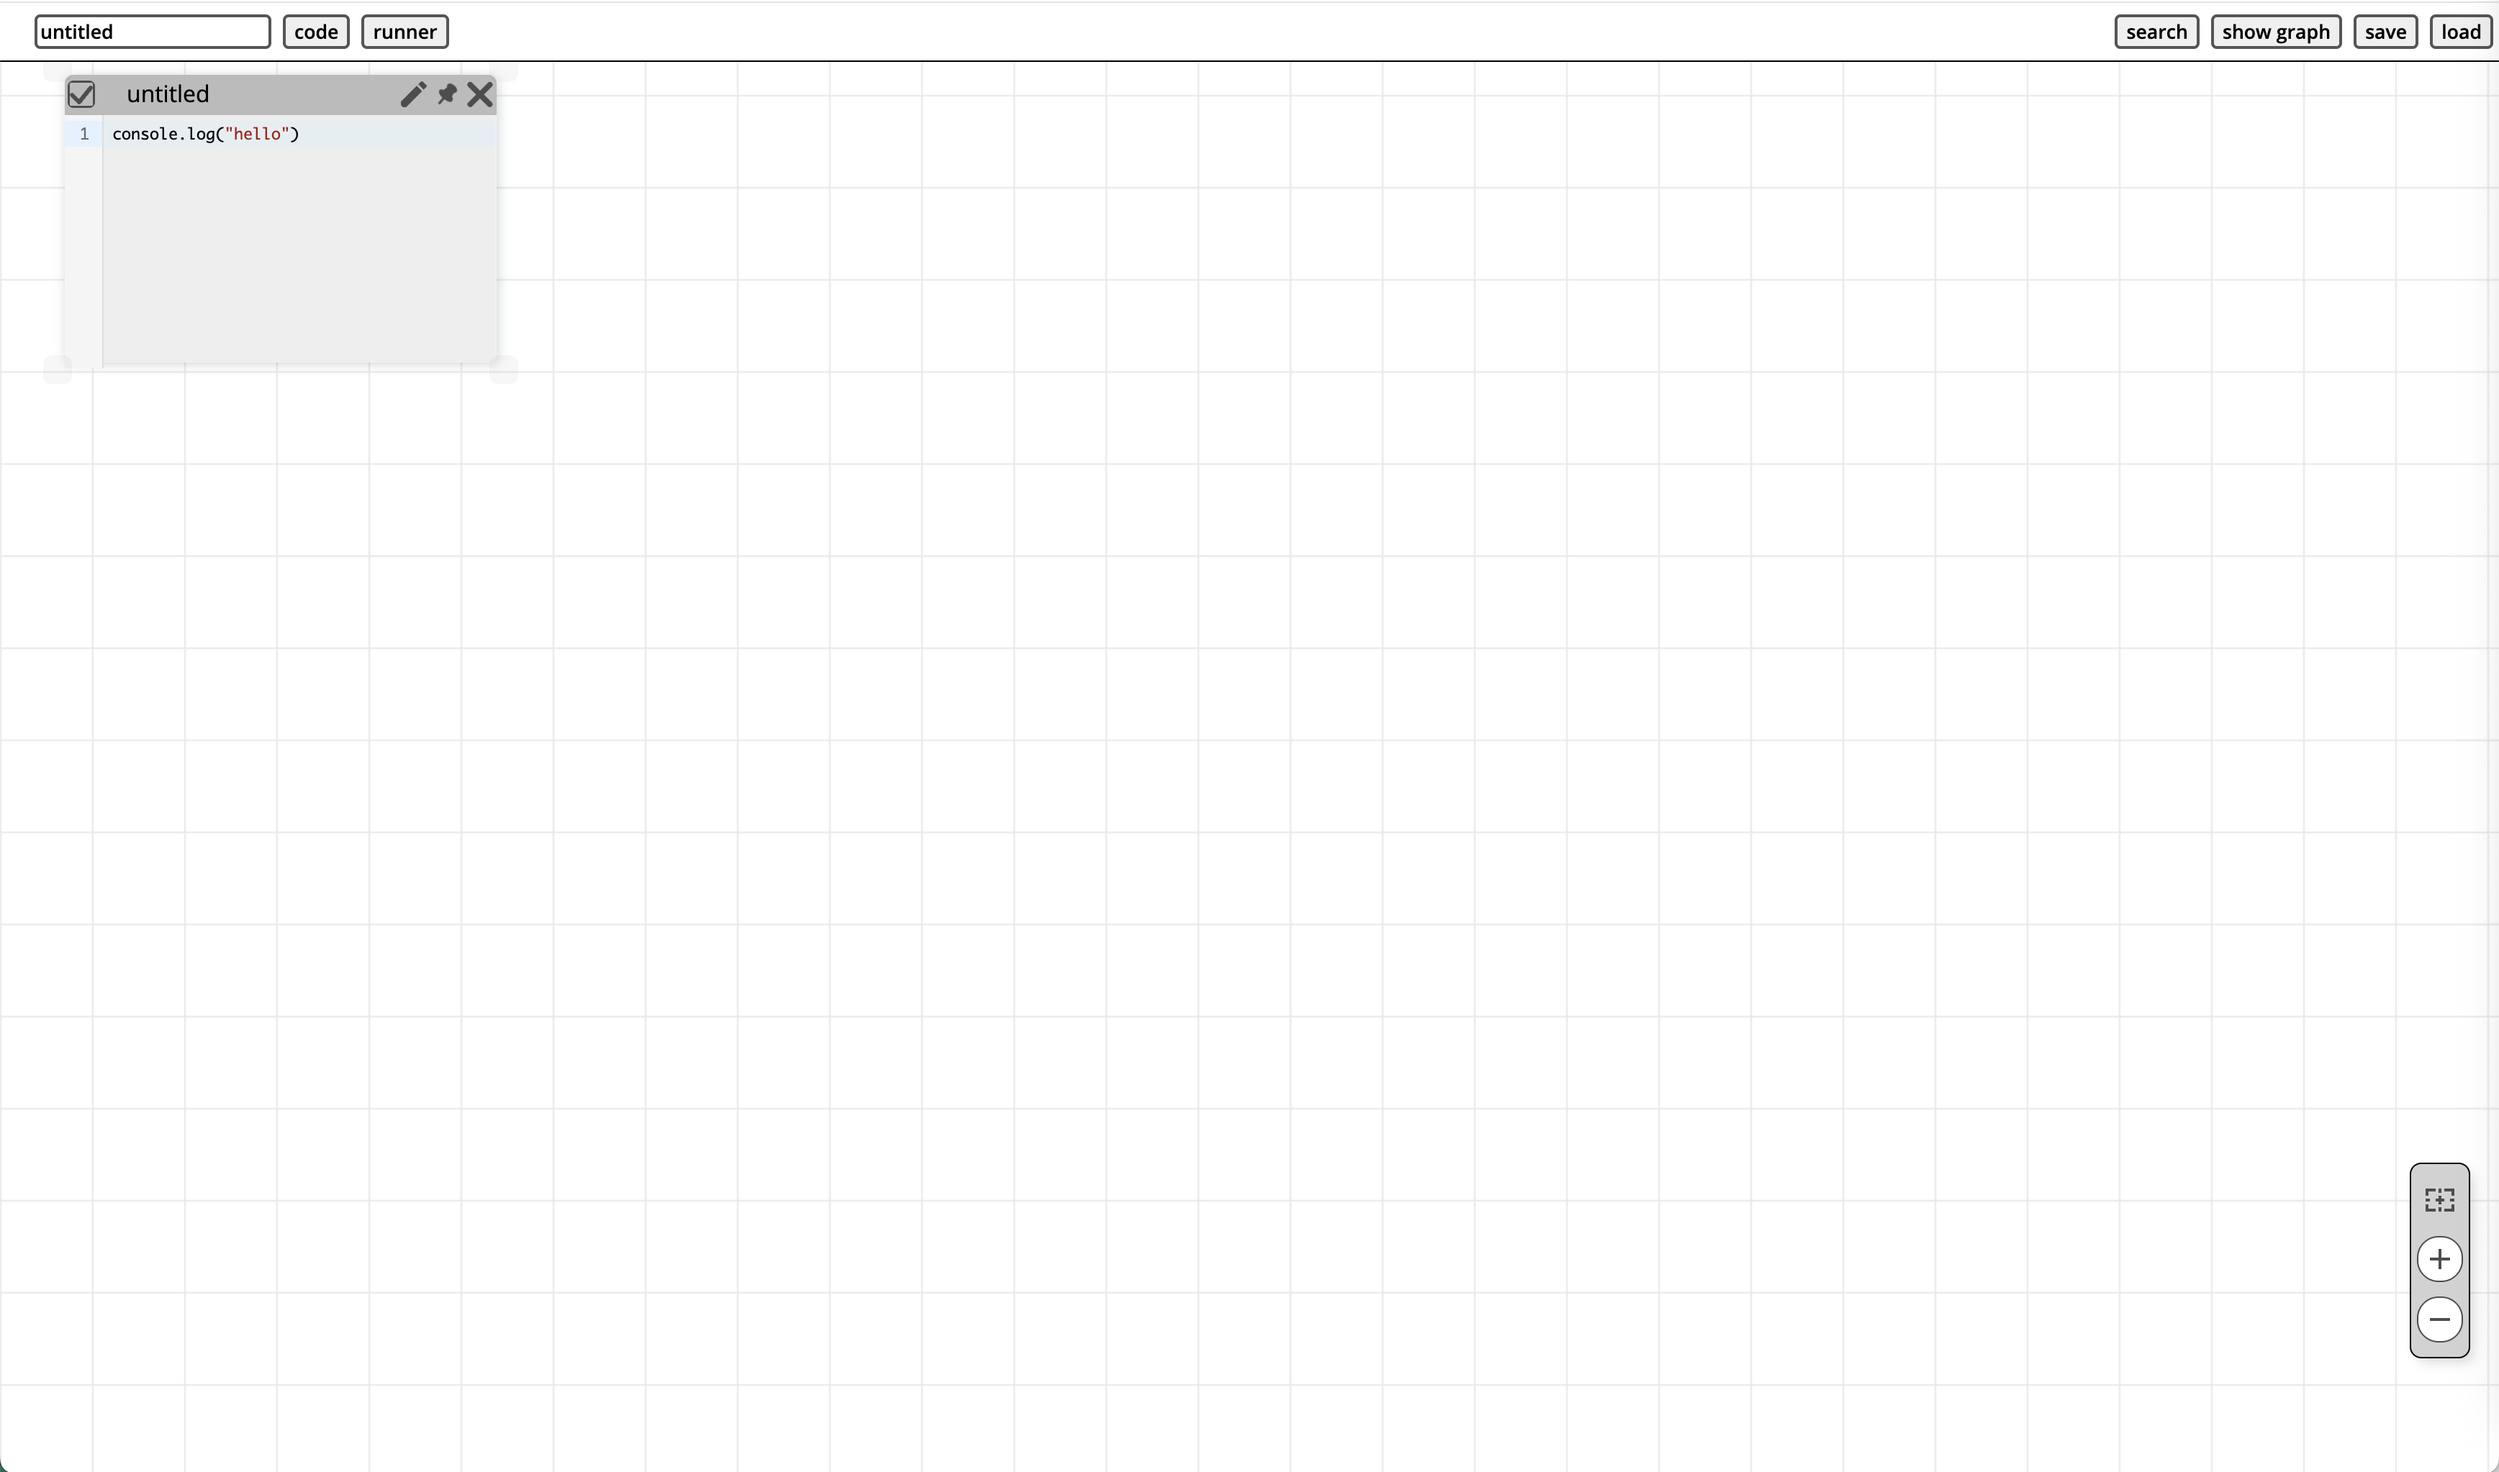
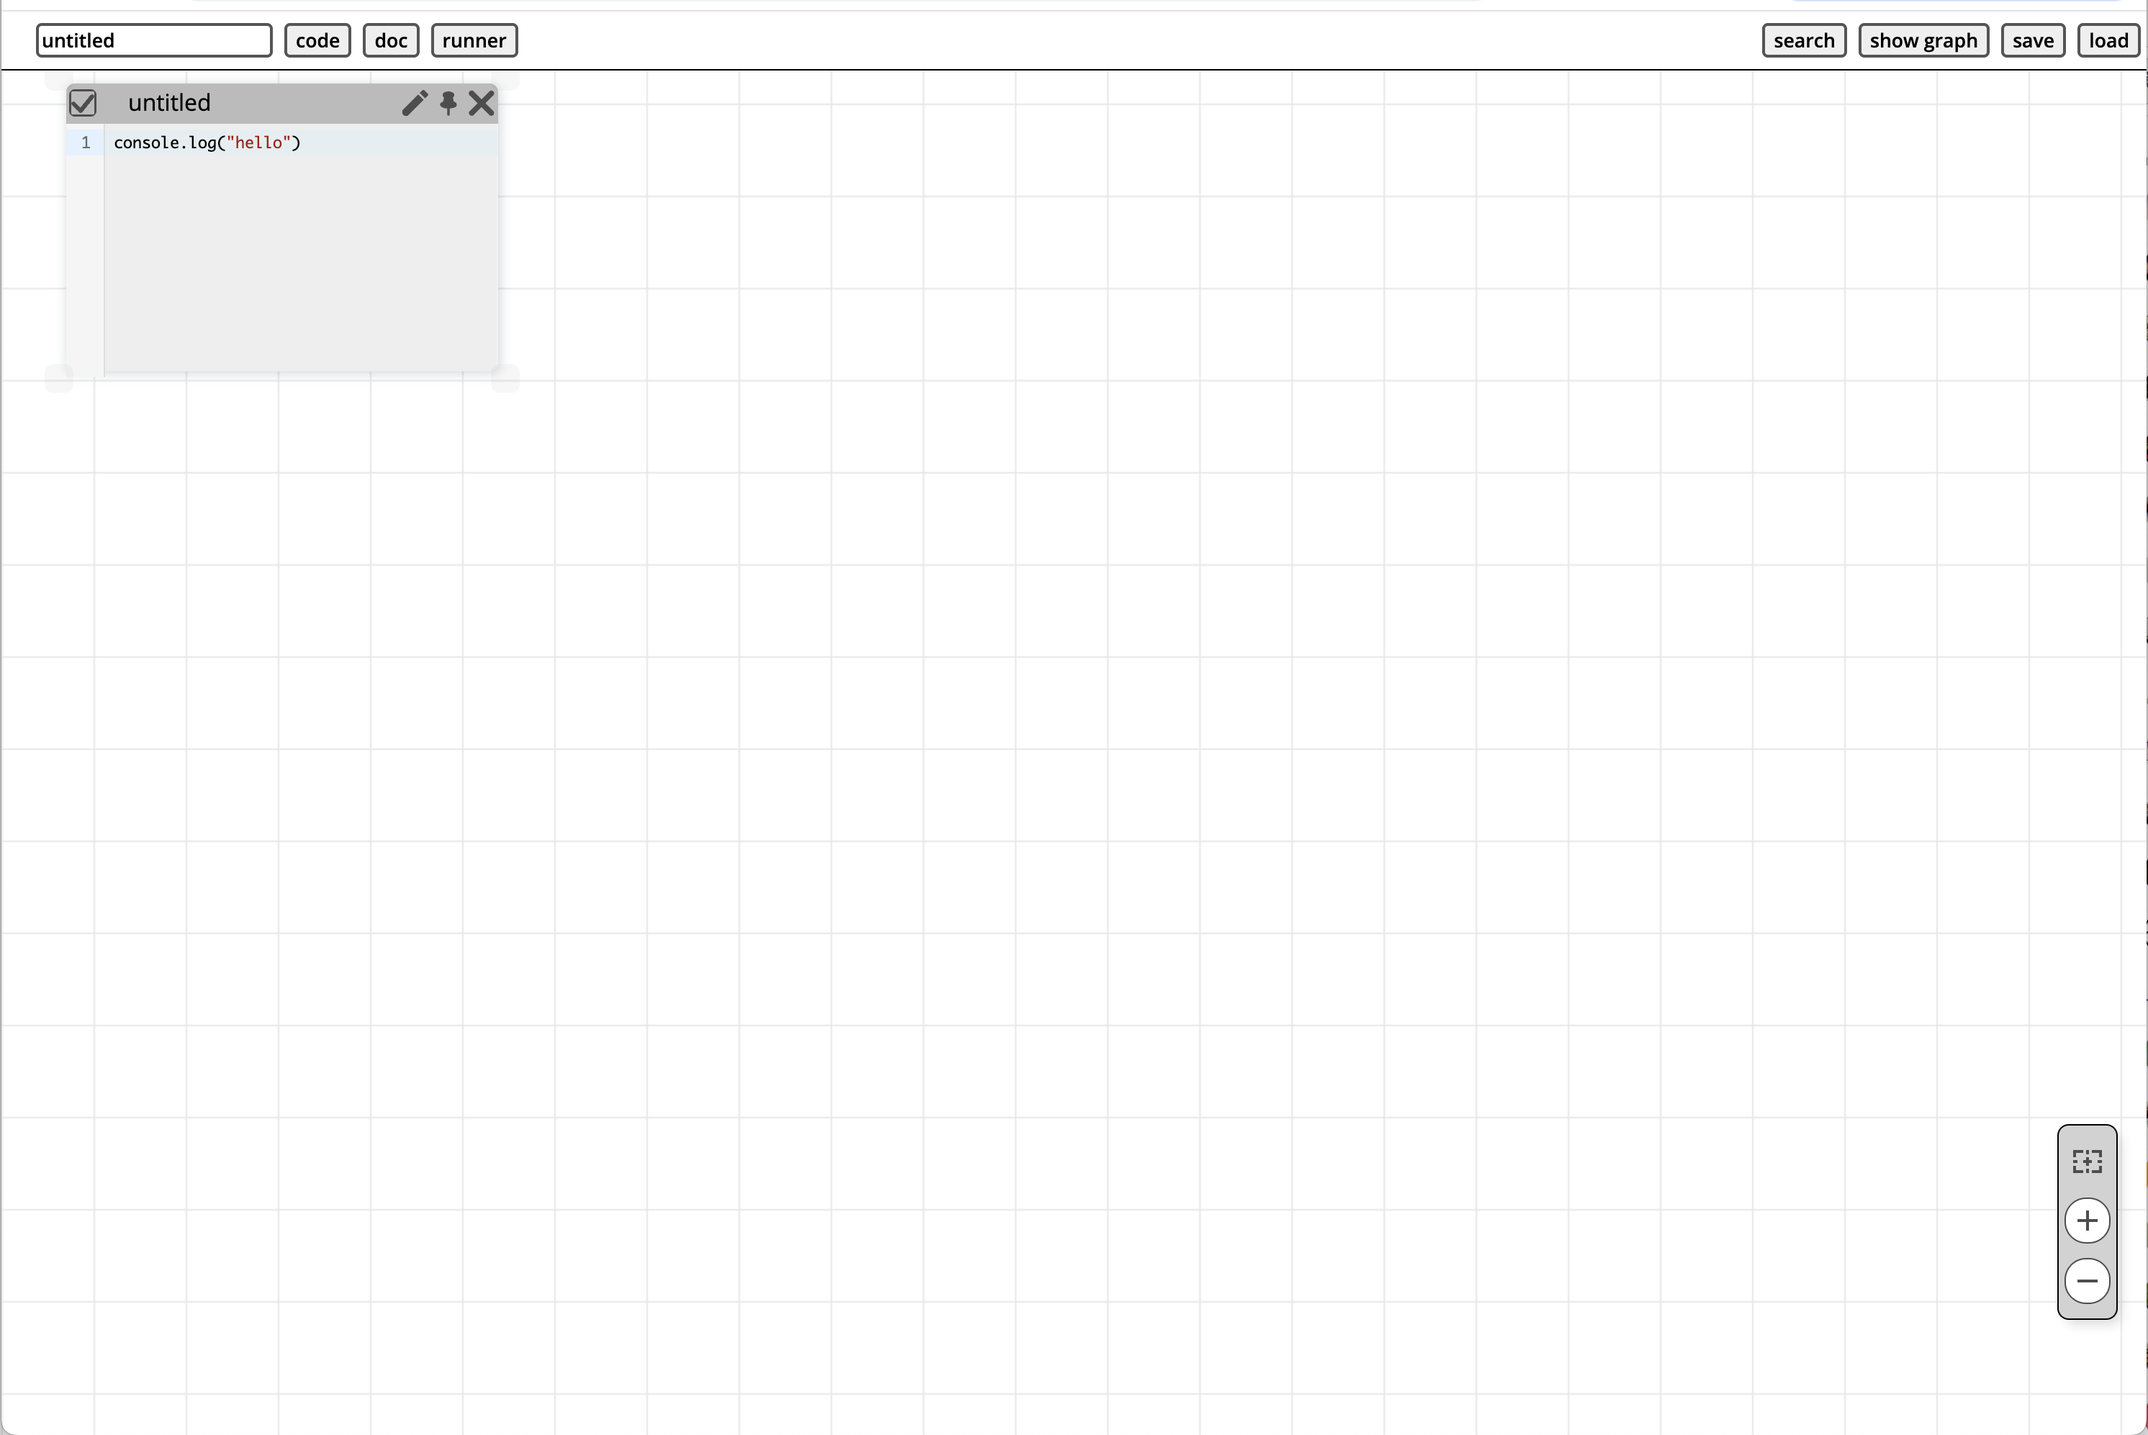
revise doc

Changed region(s): [[0.8103, 0.0, 1.0, 1.0], [0.0, 0.0, 0.2493, 0.1244], [0.0, 0.995, 0.0312, 1.0]]

diff --git a/README.md b/README.md
@@ -33,7 +33,7 @@ Renkon-pad has several buttons and controls for interacting with the environment
 The top bar includes one text field and five buttons:
 
 - The text field lets you enter the name of your project.
-- The first two buttons, **code** and **runner**, create a new text box and a new runner, respectively.
+- The first three buttons, **code**, **doc**, and **runner**, create a new text box, a doc box, and a new runner, respectively.
 - The search button brings up the search panel that looks up text from all text boxes.
 - The fourth button cycles through three states: **"show graph"**, **"show deps"**, and **"hide graph"**:
   - **Show graph**: Hovering over a text box displays its imports and exports.
@@ -42,7 +42,7 @@ The top bar includes one text field and five buttons:
 
 - The **"save"** button saves window positions and contents to a file named after the project with a `.renkon` suffix.
 
-### Manipulating Text Box and Runner
+### Text Box
 
 <img style="border: 6px solid #eee" src="./doc/textbox.png"></img>
 
@@ -52,6 +52,16 @@ Each text area uses CodeMirror for editing. The title bar contains:
 - An **edit** button that lets you change the label in the title bar,
 - A **pin** button that keeps the position and extent of the text box even when you pan or zoom the view.
 - A **close** button that closes the text box.
+
+### Doc Box
+
+<img style="border: 6px solid #eee" src="./doc/doc.png"></img>
+
+The Doc Box allows you to write your documentation in Markdown. The right side is a text editor for markdown, and the left side is the rendered result. The separator between those two panes can be moved to change the sizes of the panes.
+
+The Markdown format also allows HTML notation. You can use `iframe` or other elements to extend the documentation.
+
+### Runner
 
 <img style="border: 6px solid #eee" src="./doc/runner.png"></img>
 
@@ -64,6 +74,8 @@ A runner is a separate Renkon execution context in an iframe. A runner has:
 - A **close** button.
 
 The **play** button gathers the contents of all enabled text boxes and runs them in the runner iframe as a Renkon program. The **inspector** button toggles the visibility of the resolved stream values.
+
+### Manipulation of windows
 
 You can resize the text box or the runner using the resize handles at four corners. To bring a window to the front, drag the title bar.
 
